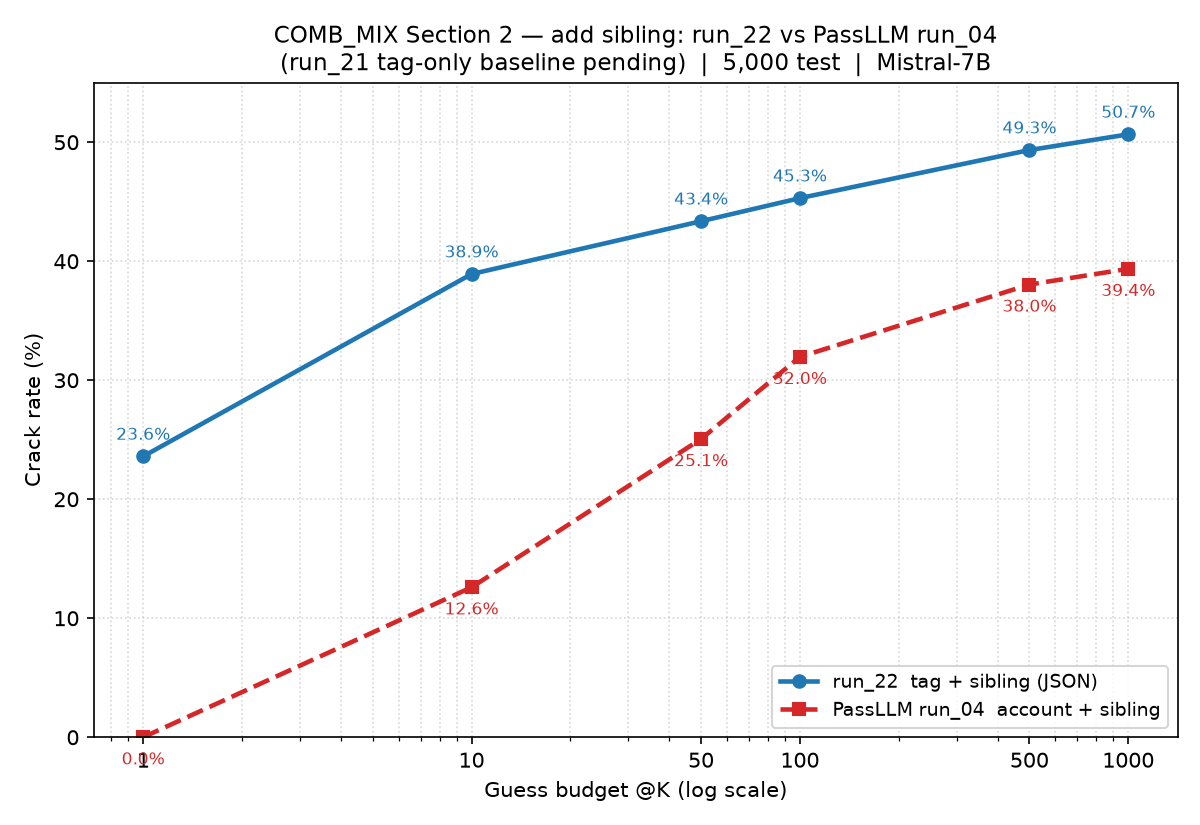
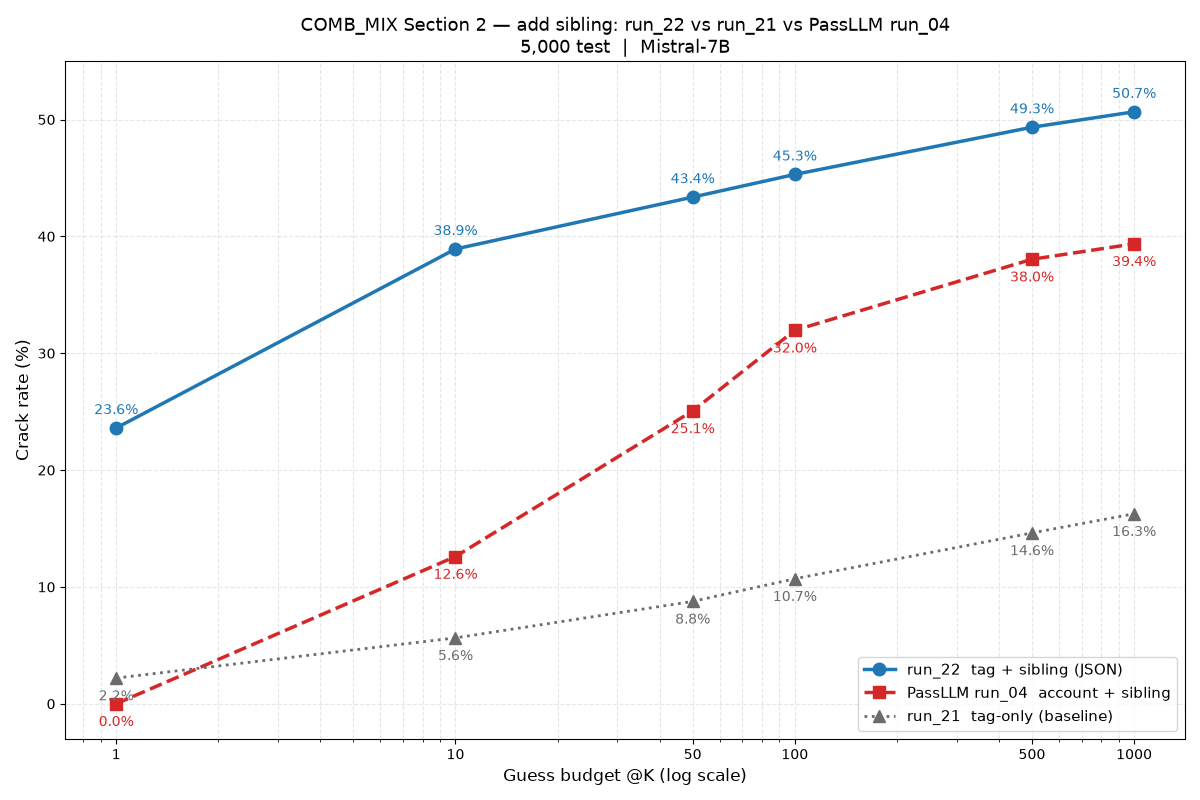
Complete run_21 (COMB_MIX tag-only) section in COMB_MIX comparison report
- Fill Section 1 (run_21 vs PassLLM run_04) from eval-340916.out
- Fill run_21 column in Section 2.3; confirm run_21 prompt string
- Regenerate Section 2 chart with run_21 baseline line

diff --git a/docs/reports/comparison_PassLLM_vs_PCFG-LLM_COMB_MIX.md b/docs/reports/comparison_PassLLM_vs_PCFG-LLM_COMB_MIX.md
@@ -36,17 +36,70 @@
 
 # Section 1 — 新採樣的比較：`run_21` vs PassLLM `run_04`
 
-> 🚧 **本節保留區塊，待 `run_21` 於 COMB_MIX 測試集重評後補上。**
+> 本節建立 COMB_MIX 新採樣上的**兩側基準水準**：一側是本研究只用 tag 結構的 `run_21`（無任何帳號 / 姊妹密碼線索），另一側是 PassLLM 的 `run_04`（帳號名 + 姊妹密碼）。兩者評估於 COMB_MIX 同一組 5,000 筆測試集。
 >
-> **背景：** `run_21`（id=5，tag-only 基準）是**訓練於 COMB_MIX**（`COMB_MIX/backoff`）的模型，但其先前評估誤用了 **plain COMB** 測試集（實際評估的 5,000 筆密碼 100% 落在 plain COMB、與 COMB_MIX 的 5,000 筆交集僅 1 筆），無法與 `run_04` 做同測試集對照。已於 `config/search.yaml` 調整為以 `run_21/lora_final_5500` 在 COMB_MIX 的同一組 5,000 筆上重評（id=5 只讀 `Tags`、忽略 `Siblings` 欄；輸出 `eval_results_id5_run_21_Mist7B_id5_COMB_MIX_constrain_5000.jsonl`），詳見 [20260913_modify.md](../logs/20260913_modify.md)。
->
-> 待重評完成後，本節將補齊：
->
-> - **1.1 Prompt 比較**：`run_21`（id=5，純 tag 結構）vs PassLLM `run_04`（帳號 + sibling）。
-> - **1.2 參數比較**：訓練 / 評估參數對照。
-> - **1.3 結果比較**：crack rate @1/@10/@50/@100/@500/@1000（同測試集）。
->
-> PassLLM `run_04` 該側的完整數字已可用（見 [Section 2](#23-結果比較)）；此處僅待 `run_21@COMB_MIX` 的對應數字。
+> **背景（測試集修正）：** `run_21`（id=5，tag-only 基準）是**訓練於 COMB_MIX**（`COMB_MIX/backoff`）的模型，但其先前評估誤用了 **plain COMB** 測試集（實際評估的 5,000 筆密碼 100% 落在 plain COMB、與 COMB_MIX 的 5,000 筆交集僅 1 筆），無法與 `run_04` 做同測試集對照。已於 `config/search.yaml` 調整為以 `run_21/lora_final_5500` 在 COMB_MIX 的同一組 5,000 筆上重評（id=5 只讀 `Tags`、忽略 `Siblings` 欄；輸出 `eval_results_id5_run_21_Mist7B_id5_COMB_MIX_constrain_5000.jsonl`），詳見 [20260913_modify.md](../logs/20260913_modify.md)。本節數字即取自此次重評（eval log `eval-340916.out`）。
+
+## 1.1 Prompt 比較
+
+以 `index=0`（密碼 `lala123abc`，tags `char2|char2|number3|np1`，姊妹密碼 `["@ggeafw1", "jelugina", "lala123a"]`）為例，逐字擷取兩側 `model_input`：
+
+**`run_21`（id=5，只有 tag 結構）：**
+
+```
+As a targeted password guessing model, your task is to generate likely password candidates that match the given tag structure. Each <tag> placeholder names the character class for that segment. Do not output the tag placeholders. Generate only the password characters for each segment in order.{"password structure": "<char2><char2><number3><np1>"}
+```
+
+**PassLLM `run_04`（id=0，帳號名 + sibling，sequence 串接）：**
+
+```
+<s>As a targeted password guessing model, your task is to utilize the provided account information to guess the password.
+blutmage@ggeafw1jeluginalala123a
+```
+
+**比對重點：**
+
+- `run_21` 只給 tag 結構 `<char2><char2><number3><np1>`（長度與字元類別約束），**完全沒有**帳號名或姊妹密碼線索。
+- PassLLM `run_04` 反之：**沒有** tag 結構，只給帳號名 `blutmage` + 同帳號三筆姊妹密碼（無分隔符串接）。
+- 因此本節不是單一變因對照，而是**兩種完全不同的線索型態**（純結構 vs 帳號 + 舊密碼）在同測試集上的基準較量。
+
+## 1.2 參數比較
+
+| 項目 | `run_21`（本研究，tag-only） | PassLLM `run_04`（帳號 + sibling） |
+|---|---|---|
+| 底模 | Mistral-7B-v0.1 | Mistral-7B-v0.1 |
+| 訓練資料 | `semanticPCFG/COMB_MIX/backoff`（tag-only） | COMB_MIX targeted json（帳號 + 舊密碼） |
+| 線索 | tag 結構（**無** sibling / 帳號） | 帳號名 + sibling |
+| prompt_template_id | 5 | 0 |
+| prompt 格式 | JSON（`"password structure"`） | sequence 串接（無分隔符） |
+| LoRA r / alpha | 16 / 32 | 16 / 32 |
+| target_modules | q,k,v_proj | q,k,v_proj |
+| lora_dropout | 0.2 | 0.2 |
+| 有效 batch size | 256 | 256 |
+| learning_rate | 2e-4 | 5e-4 |
+| num_train_epochs（計畫） | 10 | 3 |
+| 訓練狀態 | **中途取消**（2026-09-11，step ≈6,232 / 14,800） | 完成 |
+| 評估用 checkpoint | `run_21/lora_final_5500`（step 5,500 ≈ epoch 3.7） | `mistral_7b_COMB_pii_sibling/final` |
+| 搜尋法 | constrained_beam_search + fallback→dynamic | dynamic_beam_search |
+| batch_size / max_guess | 1,000 / 1,000 | 100 / 1,000 |
+| 測試集 | COMB_MIX 5,000 | COMB_MIX 5,000 |
+
+## 1.3 結果比較
+
+| @K | `run_21`（tag-only） | PassLLM `run_04`（帳號 + sibling） | 差距（run_21 − run_04） |
+|---|---|---|---|
+| @1 | 110 / 5,000（**2.20%**） | 0 / 5,000（0.00%） | **+2.20pp** |
+| @10 | 282 / 5,000（5.64%） | 630 / 5,000（**12.60%**） | −6.96pp |
+| @50 | 438 / 5,000（8.76%） | 1,253 / 5,000（**25.06%**） | −16.30pp |
+| @100 | 535 / 5,000（10.70%） | 1,598 / 5,000（**31.96%**） | −21.26pp |
+| @500 | 731 / 5,000（14.62%） | 1,902 / 5,000（**38.04%**） | −23.42pp |
+| @1000 | 813 / 5,000（16.26%） | 1,968 / 5,000（**39.36%**） | −23.10pp |
+
+**觀察：**
+
+- **@1 本研究 tag-only 反而領先：** `run_21` 首猜命中 2.20%，PassLLM `run_04` 為 0.00%——tag 結構把長度與字元類別約束住，讓首猜較容易對上；PassLLM `dynamic_beam_search` 在 @1 幾乎不命中。
+- **@10 起 PassLLM 全面反超且差距持續拉大：** @10 起 `run_04` 領先，@100 已達 +21.26pp、@1000 達 +23.10pp。在每帳號都有姊妹密碼的 COMB_MIX 上，「帳號名 + 舊密碼」提供的線索遠比「純 tag 結構」豐富，隨猜測預算增大優勢越明顯。
+- **本節基準的意義：** `run_21` 是「只有結構、沒有任何個人線索」的下界；`run_04` 是「有個人線索但沒有 tag 結構」的外部參照。[Section 2](#section-2--加上-sibling-比較run_22-vs-run_21--passllm-run_04) 進一步顯示，當本研究方法**同時**握有 tag 結構 + 姊妹密碼（`run_22`）時，可在各 @K 全面超越 `run_04`。
 
 ---
 ---
@@ -84,7 +137,7 @@ blutmage@ggeafw1jeluginalala123a
 - `run_22` 以 **JSON list** 明確分隔三筆姊妹密碼 `["@ggeafw1", "jelugina", "lala123a"]`；PassLLM `run_04` 則把**帳號名 `blutmage` + 同三筆姊妹密碼**無分隔符直接串接成 `blutmage@ggeafw1jeluginalala123a`。
 - 三者都用到同一組姊妹密碼；`run_22` 用 tag 結構 + sibling，`run_04` 用帳號名 + sibling。
 
-[^run21-prompt]: `run_21` 此例為 id=5 模板對本帳號 tags 的 render（模板為確定性輸出）；精確字串將於 `run_21@COMB_MIX` 重評輸出中確認（見 [Section 1](#section-1--新採樣的比較run_21-vs-passllm-run_04)）。
+[^run21-prompt]: 此 `run_21` 字串已於 COMB_MIX 重評輸出 `eval_results_id5_run_21_Mist7B_id5_COMB_MIX_constrain_5000.jsonl` 的 `index=0` `model_input` 逐字確認（見 [Section 1](#section-1--新採樣的比較run_21-vs-passllm-run_04)）。
 
 ## 2.2 參數比較
 
@@ -110,34 +163,35 @@ blutmage@ggeafw1jeluginalala123a
 | 搜尋法 | constrained_beam_search + fallback→dynamic | constrained_beam_search + fallback→dynamic | dynamic_beam_search |
 | beam_width | 1,000（constrained；fallback [95,1000]×15） | 1,000（constrained；fallback [95,1000]×15） | [95, 1000] × 15 |
 | batch_size / max_guess | 1,000 / 1,000 | 1,000 / 1,000 | 100 / 1,000 |
-| 測試集 | COMB_MIX 5,000（重評中） | COMB_MIX 5,000 | COMB_MIX 5,000 |
+| 測試集 | COMB_MIX 5,000 | COMB_MIX 5,000 | COMB_MIX 5,000 |
 
 > `run_21`／`run_22` 除了 prompt_template_id（5 vs 7）與訓練資料是否含 sibling 欄之外，LoRA 與其餘超參數完全相同，屬乾淨對照；與 PassLLM `run_04` 相比則另有 learning_rate（2e-4 vs 5e-4）與訓練 epoch（10 vs 3）差異。三者評估用權重皆為中途 checkpoint（PassLLM `run_04` 已完成）。
 
 ## 2.3 結果比較
 
-| @K | `run_21`（tag-only） | `run_22`（tag + sibling, JSON） | PassLLM `run_04`（帳號 + sibling） |
+| @K | `run_21`（tag-only 基準） | `run_22`（tag + sibling, JSON） | PassLLM `run_04`（帳號 + sibling） |
 |---|---|---|---|
-| @1 | 待補（run_21@COMB_MIX 重評中） | 1,180 / 5,000（**23.60%**） | 0 / 5,000（0.00%） |
-| @10 | 待補 | 1,946 / 5,000（**38.92%**） | 630 / 5,000（12.60%） |
-| @50 | 待補 | 2,168 / 5,000（**43.36%**） | 1,253 / 5,000（25.06%） |
-| @100 | 待補 | 2,265 / 5,000（**45.30%**） | 1,598 / 5,000（31.96%） |
-| @500 | 待補 | 2,467 / 5,000（**49.34%**） | 1,902 / 5,000（38.04%） |
-| @1000 | 待補 | 2,533 / 5,000（**50.66%**） | 1,968 / 5,000（39.36%） |
+| @1 | 110 / 5,000（2.20%） | 1,180 / 5,000（**23.60%**） | 0 / 5,000（0.00%） |
+| @10 | 282 / 5,000（5.64%） | 1,946 / 5,000（**38.92%**） | 630 / 5,000（12.60%） |
+| @50 | 438 / 5,000（8.76%） | 2,168 / 5,000（**43.36%**） | 1,253 / 5,000（25.06%） |
+| @100 | 535 / 5,000（10.70%） | 2,265 / 5,000（**45.30%**） | 1,598 / 5,000（31.96%） |
+| @500 | 731 / 5,000（14.62%） | 2,467 / 5,000（**49.34%**） | 1,902 / 5,000（38.04%） |
+| @1000 | 813 / 5,000（16.26%） | 2,533 / 5,000（**50.66%**） | 1,968 / 5,000（39.36%） |
 
-> `run_21` 一欄待 [Section 1](#section-1--新採樣的比較run_21-vs-passllm-run_04) 的 COMB_MIX 重評數字補上（作為「加 sibling 前」的基準；參考其於 plain COMB 的 tag-only 水準約 @1000 ≈ 18%）。
+> `run_21`（tag-only）為「加 sibling 前」的基準，數字取自 COMB_MIX 重評（見 [Section 1](#section-1--新採樣的比較run_21-vs-passllm-run_04)）。
 
-**觀察（`run_22` vs PassLLM `run_04`，已可對照）：**
+**觀察：**
 
+- **加上姊妹密碼帶來巨大增益（`run_21` → `run_22`，本研究內部乾淨對照）：** 相同底模與 tag 結構下，只多了 `"sibling passwords"` 欄，@1000 由 16.26% 躍升至 50.66%（**+34.40pp**）、@1 由 2.20% 躍升至 23.60%（+21.40pp）。姊妹密碼是本方法最關鍵的線索。
 - **本研究 `run_22`（tag + sibling）在各 @K 全面領先 PassLLM `run_04`**，@1000 為 50.66% vs 39.36%（+11.30pp）；在每帳號都有姊妹密碼的 COMB_MIX 上，「tag 結構 + 姊妹密碼」比「帳號名 + 姊妹密碼」更強。
 - **@1 差距最極端：** `run_22` 首猜命中 23.60%，`run_04` 為 0.00%——tag 結構把長度與字元類別約束住，首猜即能對上大批密碼，PassLLM 的 `dynamic_beam_search` 在 @1 幾乎不命中。
-- 差距隨 K 收斂（@10 +26.3pp → @1000 +11.3pp），但 `run_22` 始終領先。
+- `run_22` 對 `run_04` 的差距隨 K 收斂（@10 +26.3pp → @1000 +11.3pp），但 `run_22` 始終領先。
 
 ## 2.4 結果圖表
 
-![Section 2 — run_22 (tag+sibling) vs PassLLM run_04 (account+sibling)，COMB_MIX](../../gen/results/comparison_COMB_MIX_sec2_addsibling_result.png)
+![Section 2 — run_22 (tag+sibling) vs run_21 (tag-only baseline) vs PassLLM run_04 (account+sibling)，COMB_MIX](../../gen/results/comparison_COMB_MIX_sec2_addsibling_result.png)
 
-> 圖中 `run_21`（tag-only 基準）線待 COMB_MIX 重評後補入。
+> 圖含三線：`run_22`（tag + sibling，藍實線）、`run_04`（帳號 + sibling，紅虛線）、`run_21`（tag-only 基準，灰點線）。`run_21` → `run_22` 的落差即「加姊妹密碼」的增益。
 
 ---
 ---

diff --git a/docs/logs/20260915_modify.md b/docs/logs/20260915_modify.md
@@ -1,0 +1,35 @@
+# 2026-09-15 修改記錄
+
+## 補齊 COMB_MIX 比較報告的 `run_21` 部分（`eval-340916.out` 出爐）
+
+`run_21`（id=5，tag-only 基準）於 COMB_MIX 同一組 5,000 筆測試集的重評完成，
+eval log `eval-340916.out`，輸出
+`gen/eval_results_id5_run_21_Mist7B_id5_COMB_MIX_constrain_5000.jsonl`。
+crack rate（由 JSONL 之 `min_cracked_guess_number` 逐筆計算）：
+
+| @K | run_21（tag-only） |
+|---|---|
+| @1 | 110 / 5,000（2.20%） |
+| @10 | 282 / 5,000（5.64%） |
+| @50 | 438 / 5,000（8.76%） |
+| @100 | 535 / 5,000（10.70%） |
+| @500 | 731 / 5,000（14.62%） |
+| @1000 | 813 / 5,000（16.26%） |
+
+（stdout 只印 @1/@10/@100/@1000；@50、@500 由 JSONL 補算。）
+
+### `docs/reports/comparison_PassLLM_vs_PCFG-LLM_COMB_MIX.md`
+
+- **Section 1**：移除 🚧 保留區塊，補齊 1.1 Prompt 比較（`run_21` id=5 vs PassLLM `run_04` id=0）、
+  1.2 參數比較、1.3 結果比較（run_21 vs run_04 同測試集）。
+  觀察：@1 tag-only 領先（2.20% vs 0.00%），@10 起 PassLLM 全面反超（@1000 −23.10pp）。
+- **Section 2.1**：footnote `[^run21-prompt]` 由「待確認」改為已逐字確認
+  （`index=0` `model_input` 與報告字串一致）。
+- **Section 2.3**：`run_21` 一欄由「待補」填入實際數字；新增觀察點
+  「加姊妹密碼 run_21→run_22 增益 @1000 +34.40pp」。
+- **Section 2.2 / 2.4**：移除「重評中」「待 COMB_MIX 重評後補入」等字樣。
+
+### `gen/results/comparison_COMB_MIX_sec2_addsibling_result.png`
+
+重新繪製 Section 2 圖表，新增 `run_21`（tag-only 基準，灰點線 ▲）第三條線，
+與原 `run_22`（藍實線）、`run_04`（紅虛線）並列；標題移除 baseline pending 字樣。
